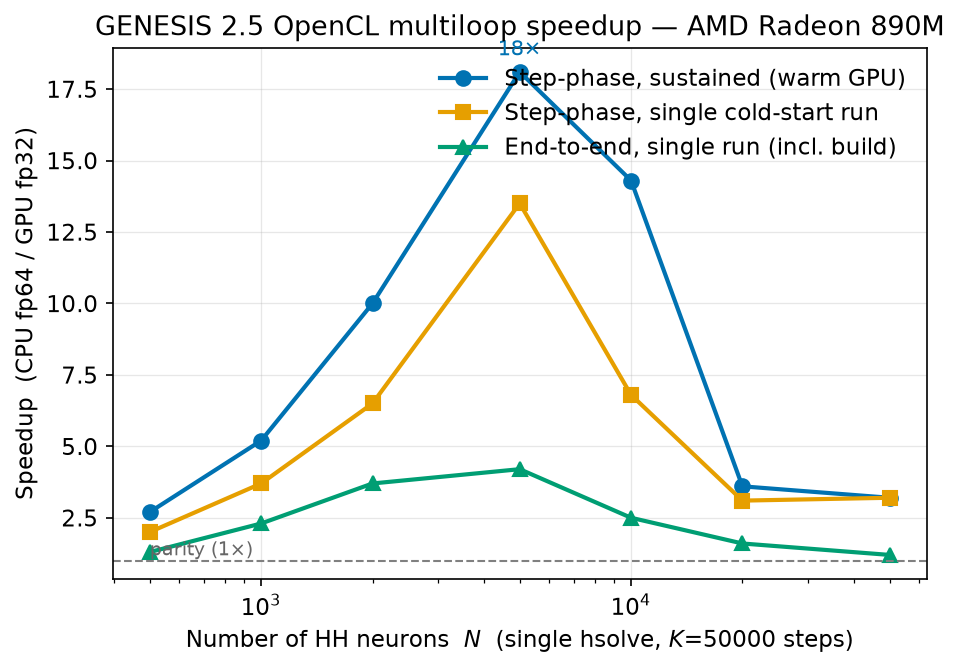
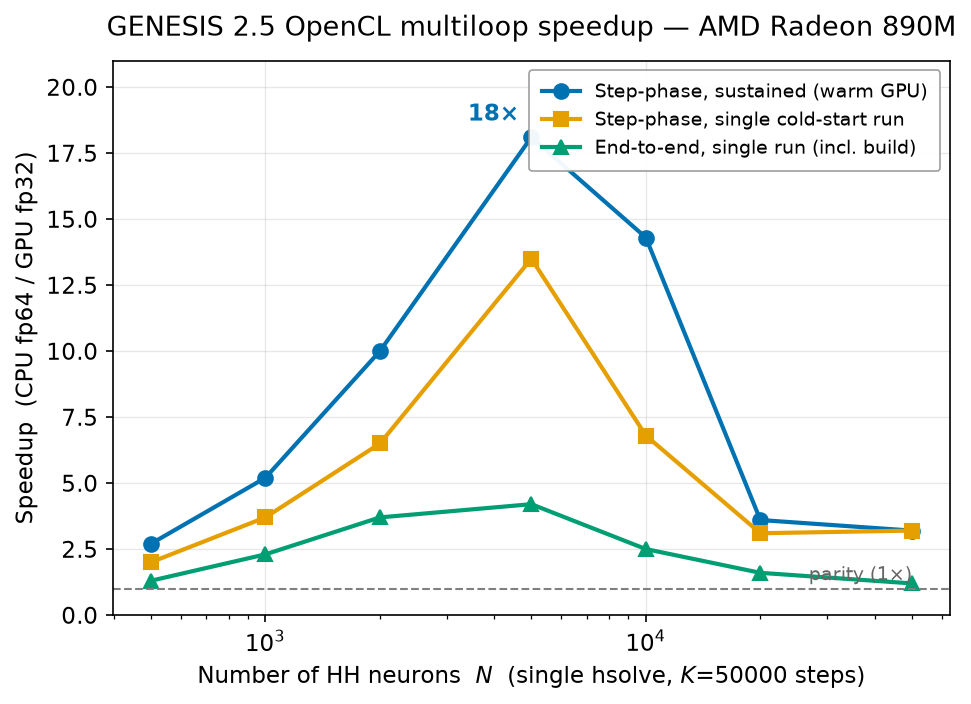
paper: improve speedup-figure legend visibility, recompile PDF
plot_campaign.py: opaque white framed legend in the empty upper-right, y-axis
headroom, bold peak label placed clear of the legend. Regenerated
fig_campaign_speedup.png and rebuilt the manuscript PDF. Ignore latex .spl.

Changed region(s): [[0.0, 0.0, 0.9979, 0.988], [0.7258, 0.5389, 0.756, 0.5689]]

diff --git a/paper/plot_campaign.py b/paper/plot_campaign.py
@@ -53,20 +53,26 @@ def fig_speedup():
     sus  = [fnum(r, "speedup_sustained") for r in rows]
     sing = [fnum(r, "speedup_singlerun") for r in rows]
     e2e  = [fnum(r, "end2end_singlerun") for r in rows]
-    fig, ax = plt.subplots(figsize=(7, 4.6))
+    fig, ax = plt.subplots(figsize=(7.2, 4.8))
     ax.plot(N, sus,  "-o", color=BLUE,   lw=2, ms=7, label="Step-phase, sustained (warm GPU)")
     ax.plot(N, sing, "-s", color=ORANGE, lw=2, ms=7, label="Step-phase, single cold-start run")
     ax.plot(N, e2e,  "-^", color=GREEN,  lw=2, ms=7, label="End-to-end, single run (incl. build)")
     ax.axhline(1.0, color="0.5", lw=1, ls="--")
-    ax.text(N[0], 1.03, "parity (1×)", color="0.4", fontsize=9, va="bottom")
+    ax.text(N[-1], 1.15, "parity (1×)", color="0.4", fontsize=9, va="bottom", ha="right")
     ax.set_xscale("log")
+    ax.set_ylim(0, 21)
     ax.set_xlabel("Number of HH neurons  $N$  (single hsolve, $K$=50000 steps)")
     ax.set_ylabel("Speedup  (CPU fp64 / GPU fp32)")
-    ax.set_title("GENESIS 2.5 OpenCL multiloop speedup — AMD Radeon 890M")
-    ax.legend(frameon=False, loc="upper right")
+    ax.set_title("GENESIS 2.5 OpenCL multiloop speedup — AMD Radeon 890M", pad=12)
+    # opaque framed legend, placed in the empty upper-right where all curves are low
+    leg = ax.legend(frameon=True, framealpha=0.95, edgecolor="0.6",
+                    facecolor="white", loc="upper right", fontsize=9,
+                    borderpad=0.7, labelspacing=0.5)
+    leg.get_frame().set_linewidth(0.8)
+    # annotate the peak beside the marker (not above, to clear the title)
     i = max(range(len(sus)), key=lambda k: (sus[k] or 0))
     ax.annotate(f"{sus[i]:.0f}×", (N[i], sus[i]), textcoords="offset points",
-                xytext=(0, 8), ha="center", color=BLUE, fontsize=10)
+                xytext=(-6, 8), ha="right", color=BLUE, fontsize=11, fontweight="bold")
     fig.savefig(FIG / "fig_campaign_speedup.png")
     plt.close(fig)
     print("wrote fig_campaign_speedup.png")